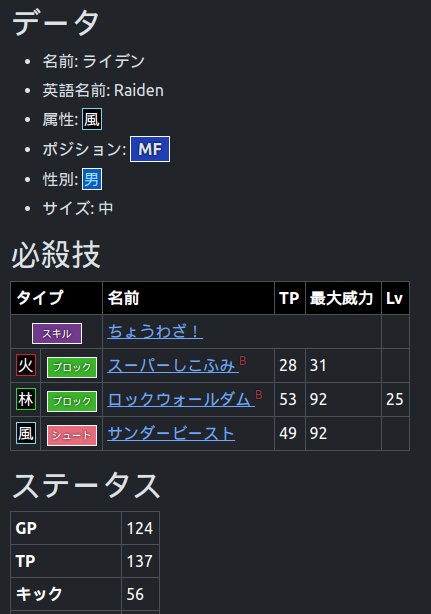
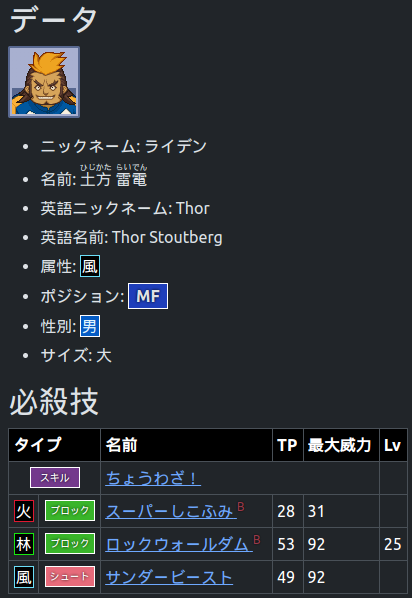
v0.2

diff --git a/src/main/resources/templates/index.html b/src/main/resources/templates/index.html
@@ -21,19 +21,23 @@
         <div>
             <ul>
                 <li>
-                    <a th:href="@{hissatsu-list}" 
+                    <a th:href="@{/hissatsu-list}" 
                         th:text="#{index.list.hissatsu}"></a>
                 </li>
                 <li>
-                    <a th:href="@{tactics-list}" 
+                    <a th:href="@{/tactics-list}" 
                         th:text="#{index.list.tactics}"></a>
                 </li>
                 <li>
-                    <a th:href="@{team-list}" 
+                    <a th:href="@{/player-binder}" 
+                        th:text="#{index.list.binder}"></a>
+                </li>
+                <li>
+                    <a th:href="@{/team-list}" 
                         th:text="#{index.list.team}"></a>
                 </li>
                 <li>
-                    <a th:href="@{formation-list}" 
+                    <a th:href="@{/formation-list}" 
                         th:text="#{index.list.formation}"></a>
                 </li>
             </ul>

diff --git a/src/main/resources/templates/binder/binder-en.html b/src/main/resources/templates/binder/binder-en.html
@@ -59,6 +59,10 @@
                     <a th:href="@{/team-list}"
                         th:text="#{teamList.title}"></a>
                 </li>
+                <li>
+                    <a th:href="@{/player-search}"
+                        th:text="#{playerSearch.title}"></a>
+                </li>
             </ul>
         </div>
 

diff --git a/src/main/resources/templates/binder/binder-ja.html b/src/main/resources/templates/binder/binder-ja.html
@@ -64,6 +64,10 @@
                     <a th:href="@{/team-list}"
                         th:text="#{teamList.title}"></a>
                 </li>
+                <li>
+                    <a th:href="@{/player-search}"
+                        th:text="#{playerSearch.title}"></a>
+                </li>
             </ul>
         </div>
 

diff --git a/src/main/resources/static/css/general.css b/src/main/resources/static/css/general.css
@@ -358,7 +358,7 @@ sup.sup-icon.block {
 }
 
 td.td-icon .tactic-icon,
-td.td-icon .tactic-icon {
+td.td-icon .hissatsu-type-icon {
     display: block;
     margin: auto;
 }

diff --git a/README.md b/README.md
@@ -1,6 +1,12 @@
 # ChouJigen3Java
 Web application for Chou Jigen Soccer 3 made with Spring. <br>
 Database details can be found on the following repository: [ChouJigen3Mysql](https://github.com/morenopilaralejandro/choujigen3mysql)
+## Version 0.2
+- Added player kanji name with furigana
+- Added player English name
+- Added player portrait
+- Added player binder (Gojūon and English alphabetical order)
+- Added player search
 ## Version 0.1
 - Added all Hissatsu
 - Added all Hissatsu Tactics
@@ -11,7 +17,11 @@ Database details can be found on the following repository: [ChouJigen3Mysql](htt
 ## Screenshots
 Hissatsu<br>
 ![alt text](https://github.com/morenopilaralejandro/choujigen3java/blob/main/src/main/resources/static/img/github-img/hissatsu.png?raw=true)
+Player Binder<br>
+![alt text](https://github.com/morenopilaralejandro/choujigen3java/blob/main/src/main/resources/static/img/github-img/player-binder.png?raw=true)
 Team<br>
 ![alt text](https://github.com/morenopilaralejandro/choujigen3java/blob/main/src/main/resources/static/img/github-img/team.png?raw=true)
 Player<br>
 ![alt text](https://github.com/morenopilaralejandro/choujigen3java/blob/main/src/main/resources/static/img/github-img/player.png?raw=true)
+Player Search<br>
+![alt text](https://github.com/morenopilaralejandro/choujigen3java/blob/main/src/main/resources/static/img/github-img/player-search.png?raw=true)
